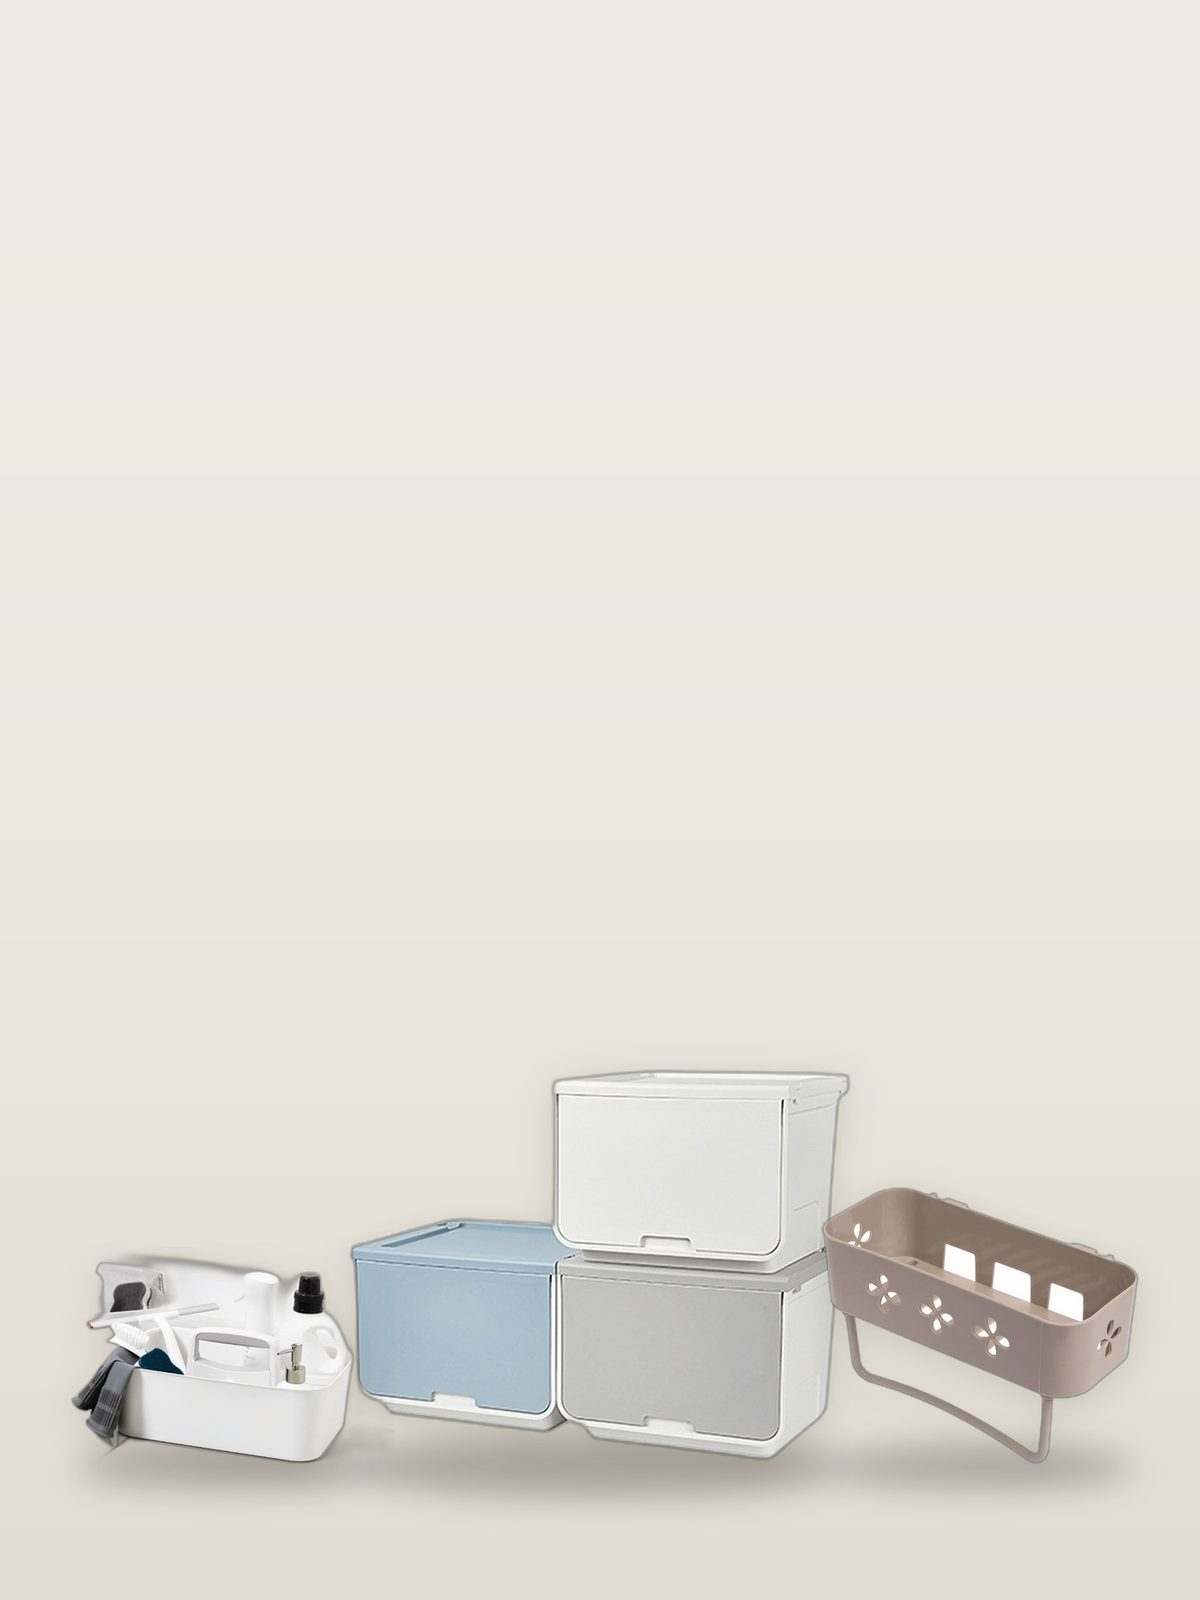
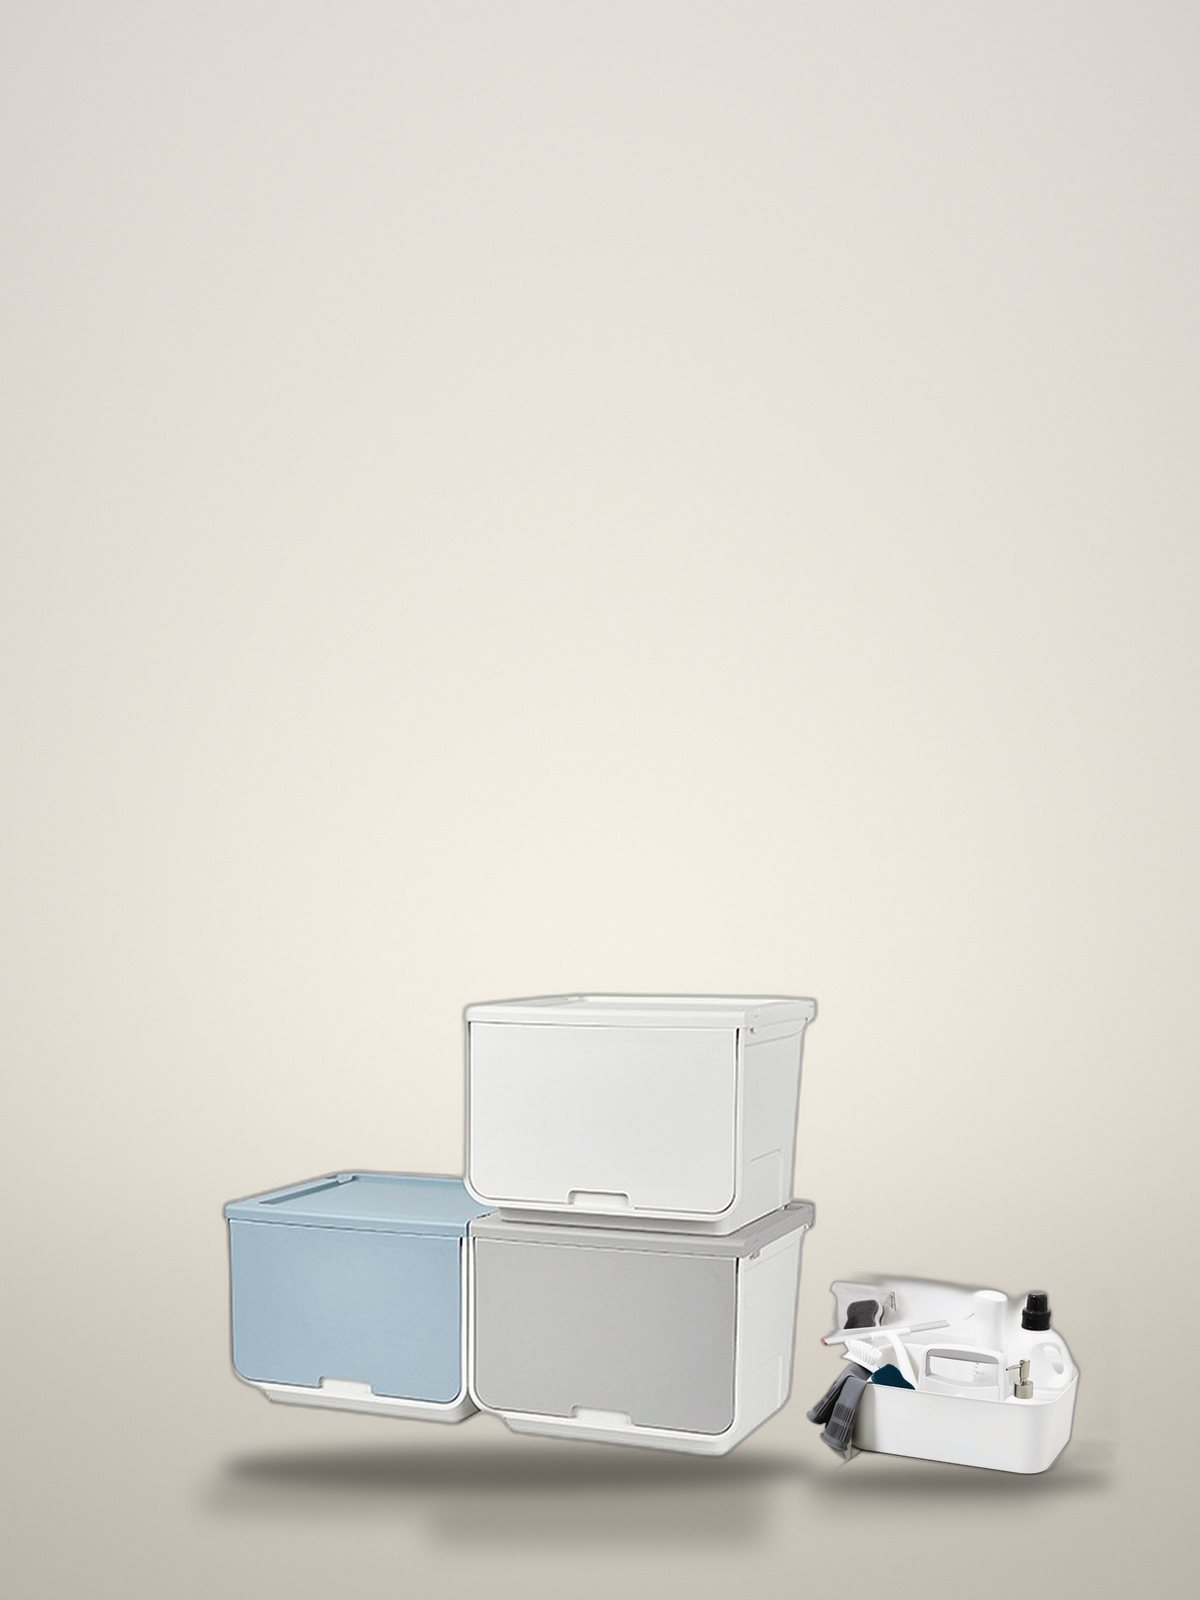
첫 화면 띠 사진 3차 — 촬영대 꼴(벽 · 바닥 · 빛 · 그림자) 위에 상품 둘

Changed region(s): [[0.0, 0.625, 1.0, 1.0]]

diff --git a/LICENSES.md b/LICENSES.md
@@ -29,7 +29,7 @@
 | 탭 아이콘(회벽 위 아치 벽감 하나) | 이 사이트가 SVG 로 직접 그림 | 바깥 그림 · 글꼴 0 |
 | 선 아이콘(분야 · 배송 · 반품 · 결제 · 문의 · 장바구니) | 이 사이트가 SVG 선으로 직접 그림(assets/ui.js) | 바깥 그림 · 아이콘 묶음 0 |
 | 상품 사진 | 상품을 보내는 협력 배송처가 쓰도록 허락한 사진 | 사진의 권리는 협력 배송처 등 권리자에게 있습니다. 화면에서는 크기와 자리만 맞추고 사진은 고치지 않습니다 |
-| 첫 화면의 모아 놓은 사진(assets/hero.jpg · hero-m.jpg) | 위 상품 사진 넷에서 배경만 지워 한 바탕에 모았습니다 | 상품의 색 · 모양은 그대로이고, 글자는 얹지 않았습니다. 권리는 위와 같이 권리자에게 있습니다 |
+| 첫 화면의 모아 놓은 사진(assets/hero.jpg · hero-m.jpg) | 위 상품 사진 둘(슬라이딩 서랍 수납함 · 손잡이 수납 바스켓)에서 배경을 지우고, 이 사이트가 그린 촬영대 바탕(벽 · 바닥 · 빛 · 그림자) 위에 놓았습니다 | 상품의 색 · 모양은 그대로이고, 글자는 얹지 않았습니다. 권리는 위와 같이 권리자에게 있습니다 |
 
 ## 스크립트
 
